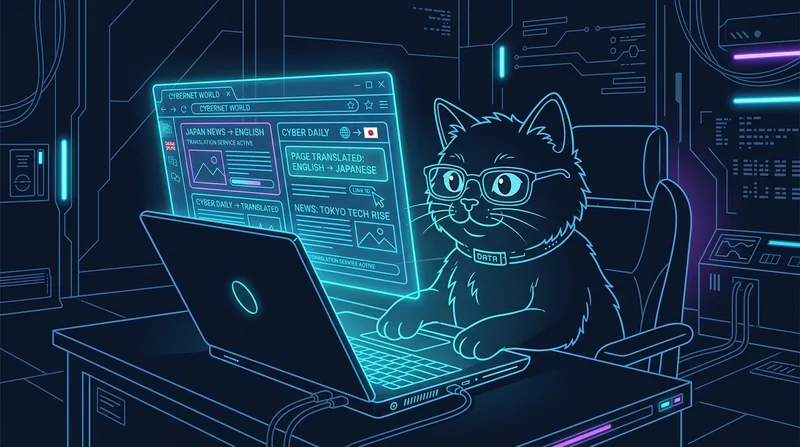
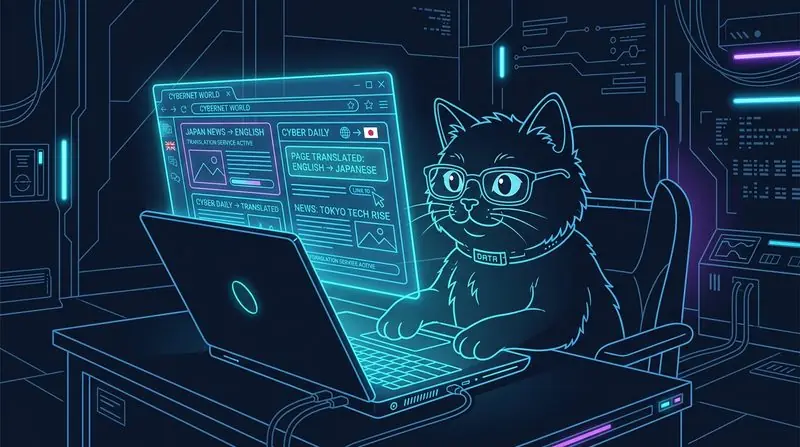
WebTranslate HaYTooL Website update (2026-10-05 01:47:46)

diff --git a/index.html b/index.html
@@ -92,7 +92,7 @@
       <div class="logo">
         <span class="logo-badge">
           <picture>
-            <source srcset="icon.webp" type="image/webp">
+            <source srcset="icon-28.webp 1x, icon-56.webp 2x" type="image/webp">
             <img src="icon.png" alt="Logo" width="28" height="28" style="vertical-align: middle;" />
           </picture>
         </span>
@@ -180,7 +180,8 @@
       <!-- Web Sayfalarını Gezen Akıllı Çizgi-Sanatı Kedi Görsel Vitrini -->
       <div class="cat-showcase-wrap">
         <picture>
-          <source srcset="cat.webp" type="image/webp">
+          <source type="image/webp" srcset="cat-400.webp 400w, cat.webp 800w" sizes="(max-width: 600px) 364px, 800px">
+          <source type="image/jpeg" srcset="cat-400.jpg 400w, cat.jpg 800w" sizes="(max-width: 600px) 364px, 800px">
           <img src="cat.jpg" alt="Web Sitelerini Gezen Çevirmen Kedi - WebTranslate HaYTooL" class="cat-img" width="800" height="446" fetchpriority="high" decoding="async" />
         </picture>
         <div class="cat-glow"></div>

diff --git a/404.html b/404.html
@@ -193,7 +193,7 @@
       <a href="index.html" class="logo" style="text-decoration: none;">
         <span class="logo-badge">
           <picture>
-            <source srcset="icon.webp" type="image/webp">
+            <source srcset="icon-28.webp 1x, icon-56.webp 2x" type="image/webp">
             <img src="icon.png" alt="WebTranslate HaYTooL Logo" width="28" height="28" style="vertical-align: middle;" />
           </picture>
         </span>
@@ -215,8 +215,8 @@
     <div class="error-card">
       <div class="error-illustration">
         <picture>
-          <source srcset="cat.webp" type="image/webp">
-          <img src="cat.jpg" alt="WebTranslate Cat Mascot" width="96" height="96" style="border-radius: 50%; object-fit: cover;" />
+          <source srcset="cat-400.webp" type="image/webp">
+          <img src="cat-400.jpg" alt="WebTranslate Cat Mascot" width="96" height="96" style="border-radius: 50%; object-fit: cover;" />
         </picture>
       </div>
 
